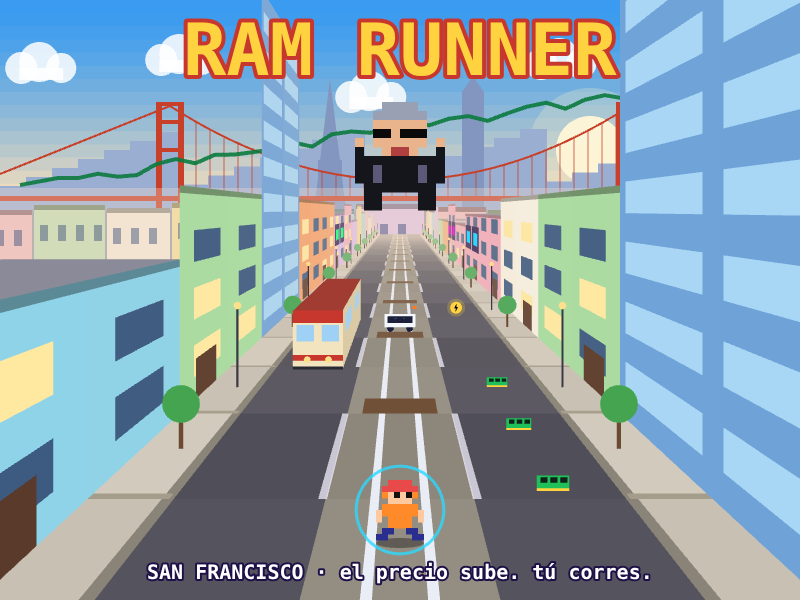
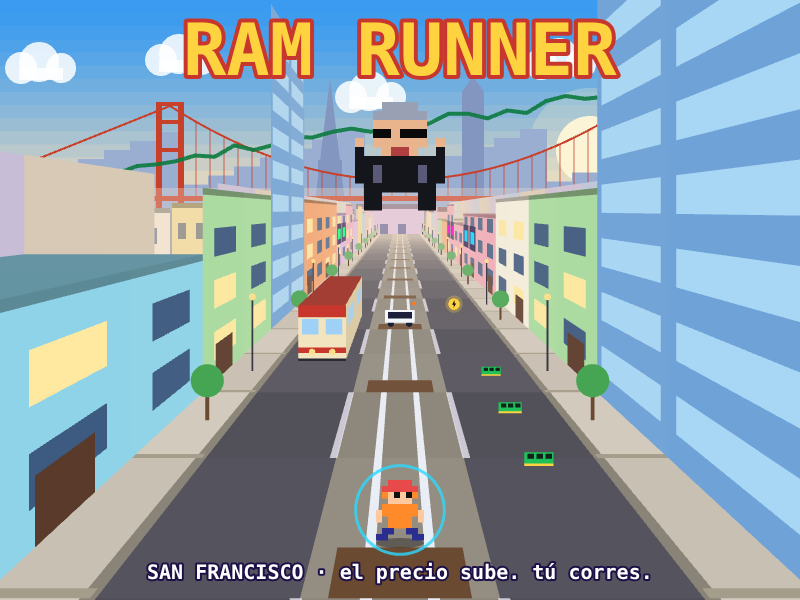
RAM RUNNER: remove price arrow, simple back wall and tinted roofs on side buildings
Claude-Session: https://claude.ai/code/session_015mF6AjqW3pGPTN2D4x7ep2

diff --git a/game.js b/game.js
@@ -445,7 +445,7 @@ function hudUpd() {
   if (ph !== 'play' && ph !== 'pause') return;
   set(hS, 'PTS ' + String(Math.min(99999999, Math.floor(R.score))).padStart(6, '0'));
   const hl = R.ev === 'h' && Math.random() < 0.3;
-  set(hR, 'DDR5 $' + (hl ? ri(5, 999) : Math.round(R.ram)) + (hl ? (Math.random() < 0.5 ? ' ^' : ' v') : R.up ? ' ^' : ' v'));
+  set(hR, 'DDR5 $' + (hl ? ri(5, 999) : Math.round(R.ram)) + '');
   hR.setColor(hl ? '#ff2bd6' : R.up ? '#39ff88' : '#ff4d6d');
   set(hN, nick);
   set(hT, [R.sh ? 'ESCUDO' : '', R.ox > 0 ? 'x2 ' + Math.ceil(R.ox) + 's' : '', R.mg > 0 ? 'IMAN ' + Math.ceil(R.mg) + 's' : ''].filter(Boolean).join('   '));
@@ -495,8 +495,9 @@ function building(sd, gi, z0, z1) {
   const lot = gi >> 1, r = hs(lot, sd), tw = r < 0.12, l = sd * 2.1, s = sc(z0);
   const hh = tw ? 900 : 250 + ((r * 1000 | 0) % 3) * 60;
   const col = tw ? 0x6fa3d8 : HPAL[(r * 100 | 0) % 7];
+  if (!tw) wall(sd * 4, z0, z1, 0, 430, [0xb7c3dc, 0xc8bdd8, 0xd6c8b4][lot % 3]);
   wall(l, z0, z1, 0, hh, col);
-  if (!tw) { wall(l, z0, z1, hh - 12, hh, mix(col, 0x000000, 0.35)); if (hh < 330) roof(l, sd * 3.8, z0, z1, hh, 0x8a8a98); }
+  if (!tw) { wall(l, z0, z1, hh - 12, hh, mix(col, 0x000000, 0.35)); if (hh < 330) roof(l, sd * 4, z0, z1, hh, mix(col, 0x000000, 0.3)); }
   if (s > 0.14) {
     if (tw) { for (let f = 0; f < 9; f++) wall(l, z0 + 0.12, z1 - 0.12, 40 + f * 95, 90 + f * 95, 0xa8d6f5); }
     else {
